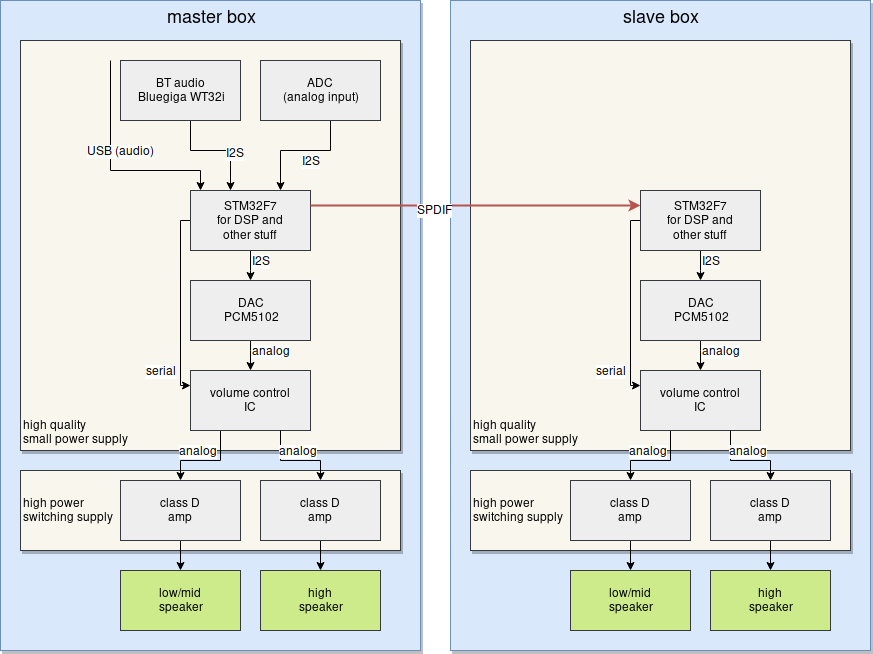
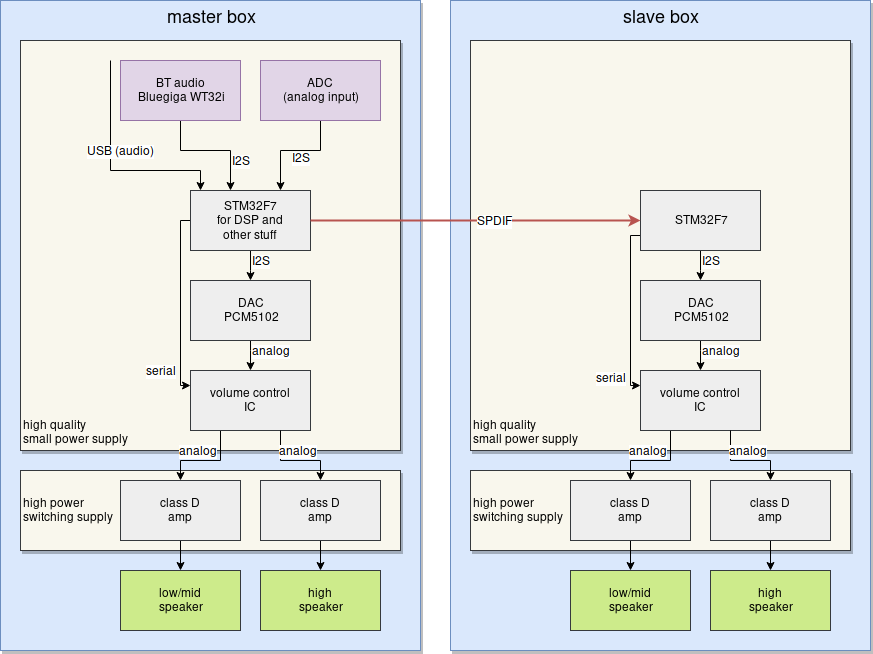
update info

diff --git a/dsp_input/README.md b/dsp_input/README.md
@@ -12,16 +12,17 @@ when we know things work.
 The audio input will be placed un extra PCBs.
 We make some I2S + power connectors on the main PCB
 and the sources like BT or analog can be conntected
-to the main board.
+to the main board. PCBs are the same for master and slave
+except we don't connect the external audio source PCBs on slave.
 
 # Checklist
 
 ## PCB routing
 
 - [ ] STM32F7/H7
-- [ ] BT audio board
-- [ ] analog audio
-- [ ] DAC +  volume control
+- [ ] input board: BT audio
+- [ ] input board: analog audio
+- [ ] DAC + volume control
 
 ## Power supply
 We will need 3-5 V. So either we use a 5 V supply
@@ -29,7 +30,7 @@ or maybe better a 7-9 V supply with linear regulators
 for the ICs.
 
 We may use a toroidal core transformer here for
-best supply quality.  
+best supply quality.
 
 Additionaly we may use a small switching supply to
 make a power on circuit. Always running the transformator
@@ -37,19 +38,21 @@ would be power waste in stand-by mode.
 
 
 # Technical
+Input boards:
 - Analog stereo input with 3.5 mm jack + good ADC
 - Bluetooth audio: [Bluegiga WT32i](https://www.silabs.com/products/wireless/bluetooth/bluetooth-classic-modules/wt32i-bluetooth-audio-module)
+- Small Linux board with WLAN could provide a Spotify client
 
-- STM32H7 as DSP
-  - Should handle the digital inputs
-  - USB audio input
-  - Acts as audio crossover for high and middle/low tone (BiQuad IIRs)
-  - Could do some equalizing etc...
-  - For analog volume control IC
-  - Some runtime config of DSP
-  - Remote control IR/radio: [IRMP](https://github.com/svn2github/irmp)
-  - Switch on delay to charge caps
-  - Temperature control
+STM32H7 as DSP:
+- Should handle the digital inputs
+- USB audio input
+- Acts as audio crossover for high and middle/low tone (BiQuad IIRs)
+- Could do some equalizing etc...
+- For analog volume control IC
+- Some runtime config of DSP
+- Remote control IR/radio: [IRMP](https://github.com/svn2github/irmp)
+- Switch on delay to charge caps
+- Temperature control
 
 - DAC: [TI PCM5102](http://www.ti.com/lit/ds/symlink/pcm5101.pdf)
 - Volume control: [TI PGA2311](http://www.ti.com/lit/ds/symlink/pga2311.pdf)

diff --git a/README.md b/README.md
@@ -11,17 +11,17 @@ The speakers can be places on a desk besides the computer screen for example.
 There will be a master and a slave box.
 
 Master box:
-
-- High and middle tone speaker
-- 2 x Class D amp, for each speaker
-- Switching power supply
 - DSP crossover with analog/USB/BT input
+- 2 x class D amps, for each speaker one
+- Tweeter + mid-range driver
 
-Slave Box: Same as master box, but no DSP crossover.  
-It should have a two low level analog inputs feeding
-the amp directly. The master box provides the signal.
+Slave Box:  
+Same as master box, but no crossover and input stuff.  
+Master box provides the ready to use audio signal and
+a data link for slave via SPDIF.
 
-Master box should have a mono stand-alone mode.  
+Master box should run in mono mode when
+slave is not present.  
 
 ![system architecture](https://raw.githubusercontent.com/janhieber/small_hifi/master/system_architecture.png)
 Edit ``system_architecture.xml`` on [draw.io](https://www.draw.io/)
